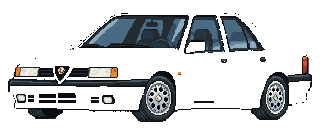
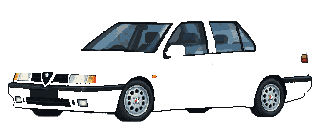
Redraw Alfa 155 Q4 from stock side and rear photographs

Changed region(s): [[0.0, 0.4062, 0.9688, 0.9688], [0.25, 0.0938, 0.8438, 0.5], [0.8125, 0.4375, 0.8438, 0.5]]

diff --git a/public/previews/pixel-cars/index.html b/public/previews/pixel-cars/index.html
@@ -1,3 +1,3 @@
 <!doctype html>
 <html lang="it"><head><meta charset="utf-8"><meta name="viewport" content="width=device-width,initial-scale=1"><meta name="robots" content="noindex,nofollow"><title>Poketurismo · Album auto pixel art</title><link rel="stylesheet" href="../seicento/catalog.css"><link rel="stylesheet" href="./catalog.css"></head>
-<body><main class="window"><header class="title">▣ Carrozzeria del paese · Album pixel art</header><div class="body"><h1>Album auto in pixel art</h1><p>Tutto il catalogo ridisegnato nello stile approvato, con sette colori. Confronta ogni bozzetto con l’immagine attuale: gli originali sono conservati.</p><p id="progress" role="status">Apertura del catalogo…</p><p id="error" role="alert" hidden></p><div class="layout"><aside aria-label="Scegli un modello"><label>Cerca marca o modello<input id="search" type="search" placeholder="Es. Fiat, Punto, M3…" autocomplete="off"></label><label>Marca<select id="brand"><option value="">Tutte le marche</option></select></label><label>Valutazione<select id="filter"><option value="all">Tutti i modelli</option><option value="updated">Aggiornate · 6 modelli</option><option value="pending">Da valutare</option><option value="approved">Vanno bene</option><option value="fix">Da correggere</option></select></label><p id="results"></p><label class="mobile-picker">Modello<select id="model-picker"></select></label><div id="model-list" class="model-list" aria-label="Modelli disponibili"></div><div class="export-actions"><button id="export" type="button">Esporta correzioni</button><button id="copy-list" type="button">Copia elenco</button></div><p class="small">Le tue note sono salvate su questo browser. Esporta l’elenco per conservarle o mandarmelo in chat.</p></aside><section class="selected" aria-label="Confronto immagine attuale e pixel art"><div class="navigation"><button id="previous" type="button">← Precedente</button><span id="position"></span><button id="next" type="button">Successiva →</button></div><h2 id="model-name">Scegli un modello</h2><p id="model-info"></p><label class="legacy-choice"><input id="legacy-paint" type="checkbox"> Confronta con la verniciatura attuale dello stesso colore</label><div class="comparison"><figure><div class="image-scroll"><img id="original" width="400" height="130" alt="Immagine originale"></div><figcaption id="original-caption">Immagine attuale · originale</figcaption></figure><figure><div class="image-scroll"><img id="preview" width="400" height="130" alt="Anteprima della vernice"></div><figcaption id="selected-name" aria-live="polite"></figcaption></figure></div><nav id="palette" class="palette" aria-label="Scegli il colore"></nav><div class="detail-actions"><button id="zoom" type="button" aria-pressed="false">Ingrandisci pixel art ×2</button><button id="copy-link" type="button">Copia collegamento a questa auto</button></div><details id="all-colours"><summary>Confronta tutti i colori</summary><div id="board" class="board"></div></details><details class="mask-details"><summary>Guarda carrozzeria e dettagli separati</summary><p class="small">La carrozzeria cambia colore; vetri, luci, cerchi e gomme mantengono gli stessi pixel.</p><div class="layer-grid"><figure><img id="mask" width="320" height="128" alt="Carrozzeria separata"><figcaption>Carrozzeria</figcaption></figure><figure><img id="details-layer" width="320" height="128" alt="Vetri, luci e ruote separati"><figcaption>Dettagli conservati</figcaption></figure></div></details><section class="review"><h3>La tua valutazione</h3><label>Risultato<select id="review-state"><option value="pending">Da valutare</option><option value="approved">Va bene</option><option value="fix">Da correggere</option></select></label><label>Cosa sistemare<textarea id="note" rows="3" maxlength="1200" placeholder="Es. correggere la sagoma, il numero di porte, i fari o i cerchi…"></textarea></label><button id="confirm-review" type="button">Conferma valutazione</button><p id="saved" class="small" role="status"></p></section><div class="status"><strong>Album in valutazione</strong><p>I bozzetti restano separati dalle immagini del gioco. La vecchia cartella vernici e le sue note rimangono disponibili.</p></div></section></div><div id="copy-fallback" hidden><label>Testo da copiare<textarea id="copy-text" rows="8" readonly></textarea></label></div><footer><a href="../seicento/">Vernici sulle immagini attuali</a><a href="/map">← Torna al gioco</a><span id="notice" role="status"></span></footer></div></main><noscript>Attiva JavaScript per sfogliare le anteprime.</noscript><script type="module" src="./catalog.js?v=4"></script></body></html>
+<body><main class="window"><header class="title">▣ Carrozzeria del paese · Album pixel art</header><div class="body"><h1>Album auto in pixel art</h1><p>Tutto il catalogo ridisegnato nello stile approvato, con sette colori. Confronta ogni bozzetto con l’immagine attuale: gli originali sono conservati.</p><p id="progress" role="status">Apertura del catalogo…</p><p id="error" role="alert" hidden></p><div class="layout"><aside aria-label="Scegli un modello"><label>Cerca marca o modello<input id="search" type="search" placeholder="Es. Fiat, Punto, M3…" autocomplete="off"></label><label>Marca<select id="brand"><option value="">Tutte le marche</option></select></label><label>Valutazione<select id="filter"><option value="all">Tutti i modelli</option><option value="updated">Aggiornata · Alfa 155 Q4</option><option value="pending">Da valutare</option><option value="approved">Vanno bene</option><option value="fix">Da correggere</option></select></label><p id="results"></p><label class="mobile-picker">Modello<select id="model-picker"></select></label><div id="model-list" class="model-list" aria-label="Modelli disponibili"></div><div class="export-actions"><button id="export" type="button">Esporta correzioni</button><button id="copy-list" type="button">Copia elenco</button></div><p class="small">Le tue note sono salvate su questo browser. Esporta l’elenco per conservarle o mandarmelo in chat.</p></aside><section class="selected" aria-label="Confronto immagine attuale e pixel art"><div class="navigation"><button id="previous" type="button">← Precedente</button><span id="position"></span><button id="next" type="button">Successiva →</button></div><h2 id="model-name">Scegli un modello</h2><p id="model-info"></p><label class="legacy-choice"><input id="legacy-paint" type="checkbox"> Confronta con la verniciatura attuale dello stesso colore</label><div class="comparison"><figure><div class="image-scroll"><img id="original" width="400" height="130" alt="Immagine originale"></div><figcaption id="original-caption">Immagine attuale · originale</figcaption></figure><figure><div class="image-scroll"><img id="preview" width="400" height="130" alt="Anteprima della vernice"></div><figcaption id="selected-name" aria-live="polite"></figcaption></figure></div><nav id="palette" class="palette" aria-label="Scegli il colore"></nav><div class="detail-actions"><button id="zoom" type="button" aria-pressed="false">Ingrandisci pixel art ×2</button><button id="copy-link" type="button">Copia collegamento a questa auto</button></div><details id="all-colours"><summary>Confronta tutti i colori</summary><div id="board" class="board"></div></details><details class="mask-details"><summary>Guarda carrozzeria e dettagli separati</summary><p class="small">La carrozzeria cambia colore; vetri, luci, cerchi e gomme mantengono gli stessi pixel.</p><div class="layer-grid"><figure><img id="mask" width="320" height="128" alt="Carrozzeria separata"><figcaption>Carrozzeria</figcaption></figure><figure><img id="details-layer" width="320" height="128" alt="Vetri, luci e ruote separati"><figcaption>Dettagli conservati</figcaption></figure></div></details><section class="review"><h3>La tua valutazione</h3><label>Risultato<select id="review-state"><option value="pending">Da valutare</option><option value="approved">Va bene</option><option value="fix">Da correggere</option></select></label><label>Cosa sistemare<textarea id="note" rows="3" maxlength="1200" placeholder="Es. correggere la sagoma, il numero di porte, i fari o i cerchi…"></textarea></label><button id="confirm-review" type="button">Conferma valutazione</button><p id="saved" class="small" role="status"></p></section><div class="status"><strong>Album in valutazione</strong><p>I bozzetti restano separati dalle immagini del gioco. La vecchia cartella vernici e le sue note rimangono disponibili.</p></div></section></div><div id="copy-fallback" hidden><label>Testo da copiare<textarea id="copy-text" rows="8" readonly></textarea></label></div><footer><a href="../seicento/">Vernici sulle immagini attuali</a><a href="/map">← Torna al gioco</a><span id="notice" role="status"></span></footer></div></main><noscript>Attiva JavaScript per sfogliare le anteprime.</noscript><script type="module" src="./catalog.js?v=5"></script></body></html>

diff --git a/docs/REVISIONE_AUTO_PIXEL_ART.md b/docs/REVISIONE_AUTO_PIXEL_ART.md
@@ -64,3 +64,13 @@ Asset finali in `public/images/pixel-cars/{145,155,75,zx,charade,williams}/`, in
 Controllo aggiuntivo: confronto visivo prima/dopo e tavola delle 42 tinte, validazione alpha/dettagli sull'intero catalogo e ricostruzione ripetuta dei 2.200 PNG senza differenze. Verificate byte per byte le 194 auto non interessate, i due prototipi, 200 fotografie e 1.400 vernici fotografiche. Browser sulle 42 tinte aggiornate e relativi confronti fotografici; controllati i passaggi di revisione 1→2 e 2→3, le note persistenti, l'approvazione invariata di una vettura della revisione precedente, l'esportazione e il filtro a sei modelli. Desktop 1280 e telefoni 320/390, zoom senza scorrimento esterno. Nessun errore JavaScript, file mancante o richiesta di scrittura. Rapporti in `.preview/pixel-six-qa`.
 
 Secondo controllo pubblicato il 27 ottobre 2026 sulla stessa istanza 5174/gateway 5184, con build e lint superati. Backup completo Auth + gioco prima e dopo; build precedente in `/home/klaro/.backups/poketurismo/pixel-six-2026-10-27T09-50-15-741Z`. Gateway locale e indirizzi HTTPS 443/8443 verificati: 17 risorse per indirizzo identiche ai file collaudati, salute 200, API private anonime 401 e servizi attivi. Nessuna migrazione o modifica dei salvataggi. Rapporti pubblici in `.preview/pixel-six-qa`.
+
+## Nuova ricostruzione della sola Alfa Romeo 155 Q4
+
+L'utente ha respinto nuovamente il retro della 155. Il precedente ritocco aveva reso il volume posteriore troppo generico e il fanale d'angolo alto e arancione. Questa volta la vettura è ridisegnata dalle fotografie originali, senza usare il precedente sprite come modello geometrico: foto frontale fornita dall'utente, profilo laterale di una Q4 di serie del 1992, vista posteriore a tre quarti dello stesso esemplare e altra Q4 bianca vista da dietro. La Punto approvata serve soltanto per stile e camera, senza trasferire la forma della carrozzeria.
+
+Ridisegnati montante posteriore, raccordo con il baule, sbalzo dietro l'asse posteriore e parte inferiore del paraurti. Fanale d'angolo corto e rosso, senza la precedente barra arancione verticale; mantenute quattro porte, carrozzeria stretta della prima serie, cerchi argento e assenza di alettone aggiunto. L'angolo resta anteriore a tre quarti: i riferimenti posteriori guidano la geometria senza imporre di mostrare parti nascoste.
+
+Generazione con **image_gen integrato**. [Prompt e fotografie di riferimento](../tools/paint-prototype/pixel-155-review.json); provenienza e versioni precedenti nel manifesto completo. Output in `public/images/pixel-cars/155/`, input nativo in `tools/paint-prototype/pixel-catalog-inputs/155.png`. Tutti e sette i colori sono aggiornati; revisione 3, batch `rebuild-155-2026-10-27`. Il filtro «Aggiornata · Alfa 155 Q4» isola questo intervento. Le note del browser rimangono disponibili, mentre un'approvazione precedente della 155 richiede un nuovo controllo. Le altre 199 auto, le fotografie e le vecchie vernici rimangono invariate.
+
+Verifica della ricostruzione: confronto visivo con la versione respinta e tavola dei sette colori; alpha/dettagli e ricostruzione ripetuta del catalogo completi. I 199 modelli non coinvolti conservano tutti gli undici PNG byte per byte; originali e vecchie vernici intatti. Browser su sette tinte e sette confronti fotografici, revisione 2→3, note/esportazione e approvazioni degli altri modelli conservate; larghezze 320, 390 e 1280 e zoom senza scorrimento esterno. Nessun errore JavaScript, file mancante o richiesta di scrittura. Rapporti in `.preview/pixel-155-qa`.

diff --git a/AGENTS.md b/AGENTS.md
@@ -50,3 +50,4 @@
 - Catalogo pixel art del 26 ottobre: l'utente ha autorizzato l'estensione a tutti i 200 modelli, con camera coerente a tre quarti e identità/proporzioni prioritarie. 198 generazioni image_gen individuali, due prototipi conservati byte per byte tramite pixel-approved-hashes.json; 1.400 tinte e 2.200 PNG finali. Ricostruzione con build-pixel-catalog.cjs (anche build-pixel-trial.cjs ora delega al catalogo completo); input nativi/prompt/provenienza in pixel-catalog-inputs e pixel-catalog-sources.json. Non rilanciare init-pixel-catalog.cjs per riprendere o correggere un lavoro. Album `/previews/pixel-cars/` con note locali/esportabili separate da quelle delle vernici fotografiche; correzioni per modello con revisione incrementata. Originali e vecchie vernici restano intatti. Il catalogo è preparato per la revisione; nessun cambio automatico delle immagini nella partita o nuovo acquisto di verniciatura in questa fase.
 - Revisione pixel art del 27 ottobre: 18 modelli in tools/paint-prototype/pixel-rear-review.json corretti con riferimenti posteriori, tutti a revisione 2; batch rear-2026-10-27 per il filtro «Aggiornate». Leggere docs/REVISIONE_AUTO_PIXEL_ART.md. Non confondere la Colt CA0 con la C50, la HPE tre porte con la Delta prima serie o la Corsa B con la A; Renault 19 a tre porte. Williams senza spoiler su richiesta. Gli altri 182 modelli, originali e vecchie vernici conservati; nessuna approvazione estetica automatica o sostituzione delle immagini della partita.
 - Secondo controllo pixel art: sei modelli in tools/paint-prototype/pixel-detail-review.json, batch detail-six-2026-10-27 per «Aggiornate · 6 modelli». Code di 145/155/75 e fanali ZX verificati con foto posteriori; fascia nera superiore 75 separata dalla vernice, arco posteriore Charade con sommità piatta e paraurti Williams in tinta (solo modanature/prese scure), sempre senza spoiler. Charade/Williams revisione 3, altri quattro revisione 2; altre 194 auto invariate. Dettagli in docs/REVISIONE_AUTO_PIXEL_ART.md.
+- Alfa 155 Q4 ridisegnata nuovamente su richiesta: sola 155 a revisione 3, batch rebuild-155-2026-10-27, prompt/fonti in tools/paint-prototype/pixel-155-review.json. Nuovo disegno da fotografie reali frontali, laterali e posteriori; precedente sprite rifiutato non usato come geometria. Preservare proporzioni del raccordo lunotto/baule e fanale posteriore corto rosso, senza la barra verticale arancione della versione respinta. Altre 199 auto invariate, note conservate. Leggere docs/REVISIONE_AUTO_PIXEL_ART.md.
